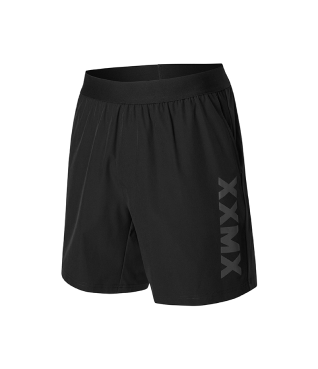
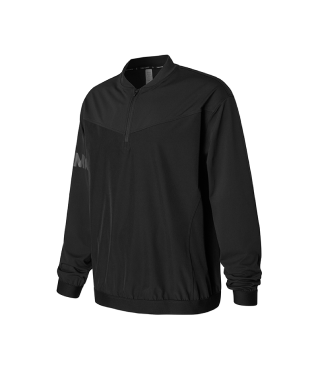
쇼룸 슬라이드버튼 여자는되는데 남자키즈는 안됨

diff --git a/main/main.html b/main/main.html
@@ -376,8 +376,18 @@
                         <div class="showLeft"><img src="/img/main/showWomen.png" alt=""></div>
                         <div class="showRight">
                             <h2 class="showTitle">Womens</h2>
-                            <p class="showContent">라이트 메쉬업 바람막이 블랙</p>
-                            <p class="itemImg"><a href=""><img src="/img/main/showWomen_1.png" alt=""></a></p>
+                            <div class="showList active">
+                                <p class="showContent">라이트 메쉬업 바람막이</p>
+                                <p class="itemImg"><a href=""><img src="/img/main/showWomen_1.png" alt=""></a></p>
+                            </div>
+                            <div class="showList">
+                                <p class="showContent">XXMX 베이직 서포트 브라탑</p>
+                                <p class="itemImg"><a href=""><img src="/img/main/showWomen_2.png" alt=""></a></p>
+                            </div>
+                            <div class="showList">
+                                <p class="showContent">조거핏 레깅스 팬츠</p>
+                                <p class="itemImg"><a href=""><img src="/img/main/showWomen_3.png" alt=""></a></p>
+                            </div>
                             <p class="leftBtn"><a href=""><img src="/img/main/leftBtn.png" alt=""></a></p>
                             <p class="rightBtn"><a href=""><img src="/img/main/rightBtn.png" alt=""></a></p>
                             <p class="goPage"><a href="">Womens바로가기</a></p>
@@ -387,8 +397,18 @@
                         <div class="showLeft"><img src="/img/main/showMen.png" alt=""></div>
                         <div class="showRight">
                             <h2 class="showTitle">Mens</h2>
-                            <p class="showContent">스트레치 트레이닝 투인원 쇼츠</p>
-                            <p class="itemImg"><a href=""><img src="/img/main/showMen_1.png" alt=""></a></p>
+                            <div class="showList active">
+                                <p class="showContent">스트레치 트레이닝 아노락</p>
+                                <p class="itemImg"><a href=""><img src="/img/main/showMen_1.png" alt=""></a></p>
+                            </div>
+                            <div class="showList">
+                                <p class="showContent">스트레치 트레이닝 투인원 쇼츠</p>
+                                <p class="itemImg"><a href=""><img src="/img/main/showMen_2.png" alt=""></a></p>
+                            </div>
+                            <div class="showList">
+                                <p class="showContent">X-데이라이트 조거</p>
+                                <p class="itemImg"><a href=""><img src="/img/main/showMen_3.png" alt=""></a></p>
+                            </div>
                             <p class="leftBtn"><a href=""><img src="/img/main/leftBtn.png" alt=""></a></p>
                             <p class="rightBtn"><a href=""><img src="/img/main/rightBtn.png" alt=""></a></p>
                             <p class="goPage"><a href="">Mens 바로가기</a></p>
@@ -398,8 +418,18 @@
                         <div class="showLeft"><img src="/img/main/showKids.png" alt=""></div>
                         <div class="showRight">
                             <h2 class="showTitle">Kids</h2>
-                            <p class="showContent">플레이 버킷햇</p>
-                            <p class="itemImg"><a href=""><img src="/img/main/showKids_1.png" alt=""></a></p>
+                            <div class="showList active">
+                                <p class="showContent">플레이 버킷햇</p>
+                                <p class="itemImg"><a href=""><img src="/img/main/showKids_1.png" alt=""></a></p>
+                            </div>
+                            <div class="showList">
+                                <p class="showContent">베이직 에코 티셔츠</p>
+                                <p class="itemImg"><a href=""><img src="/img/main/showKids_2.png" alt=""></a></p>
+                            </div>
+                            <div class="showList">
+                                <p class="showContent">액티브 우븐 반바지</p>
+                                <p class="itemImg"><a href=""><img src="/img/main/showKids_3.png" alt=""></a></p>
+                            </div>
                             <p class="leftBtn"><a href=""><img src="/img/main/leftBtn.png" alt=""></a></p>
                             <p class="rightBtn"><a href=""><img src="/img/main/rightBtn.png" alt=""></a></p>
                             <p class="goPage"><a href="">Kids 바로가기</a></p>

diff --git a/js/main.js b/js/main.js
@@ -1,2 +1,19 @@
 // main.js
 
+// 쇼룸 슬라이드 버튼
+$('.rightBtn').click(function() {
+    var active = $(this).siblings('.showList.active');
+    var next = active.next('.showList');
+  
+    console.log(active);
+    console.log(next);
+    if (next.length === 0) {
+      next = $('.showList').first();
+    }
+  
+    active.removeClass('active');
+    next.addClass('active');
+
+    return false;
+});
+  

diff --git a/css/main.css b/css/main.css
@@ -137,6 +137,12 @@
 .main6{
     margin-bottom: 100px;
 }
+.main6 .active{
+    display: block;
+}
+.showList{
+    display: none;
+}
 .showWomen{
     display: flex;
     background-color: #F8F8F8;
